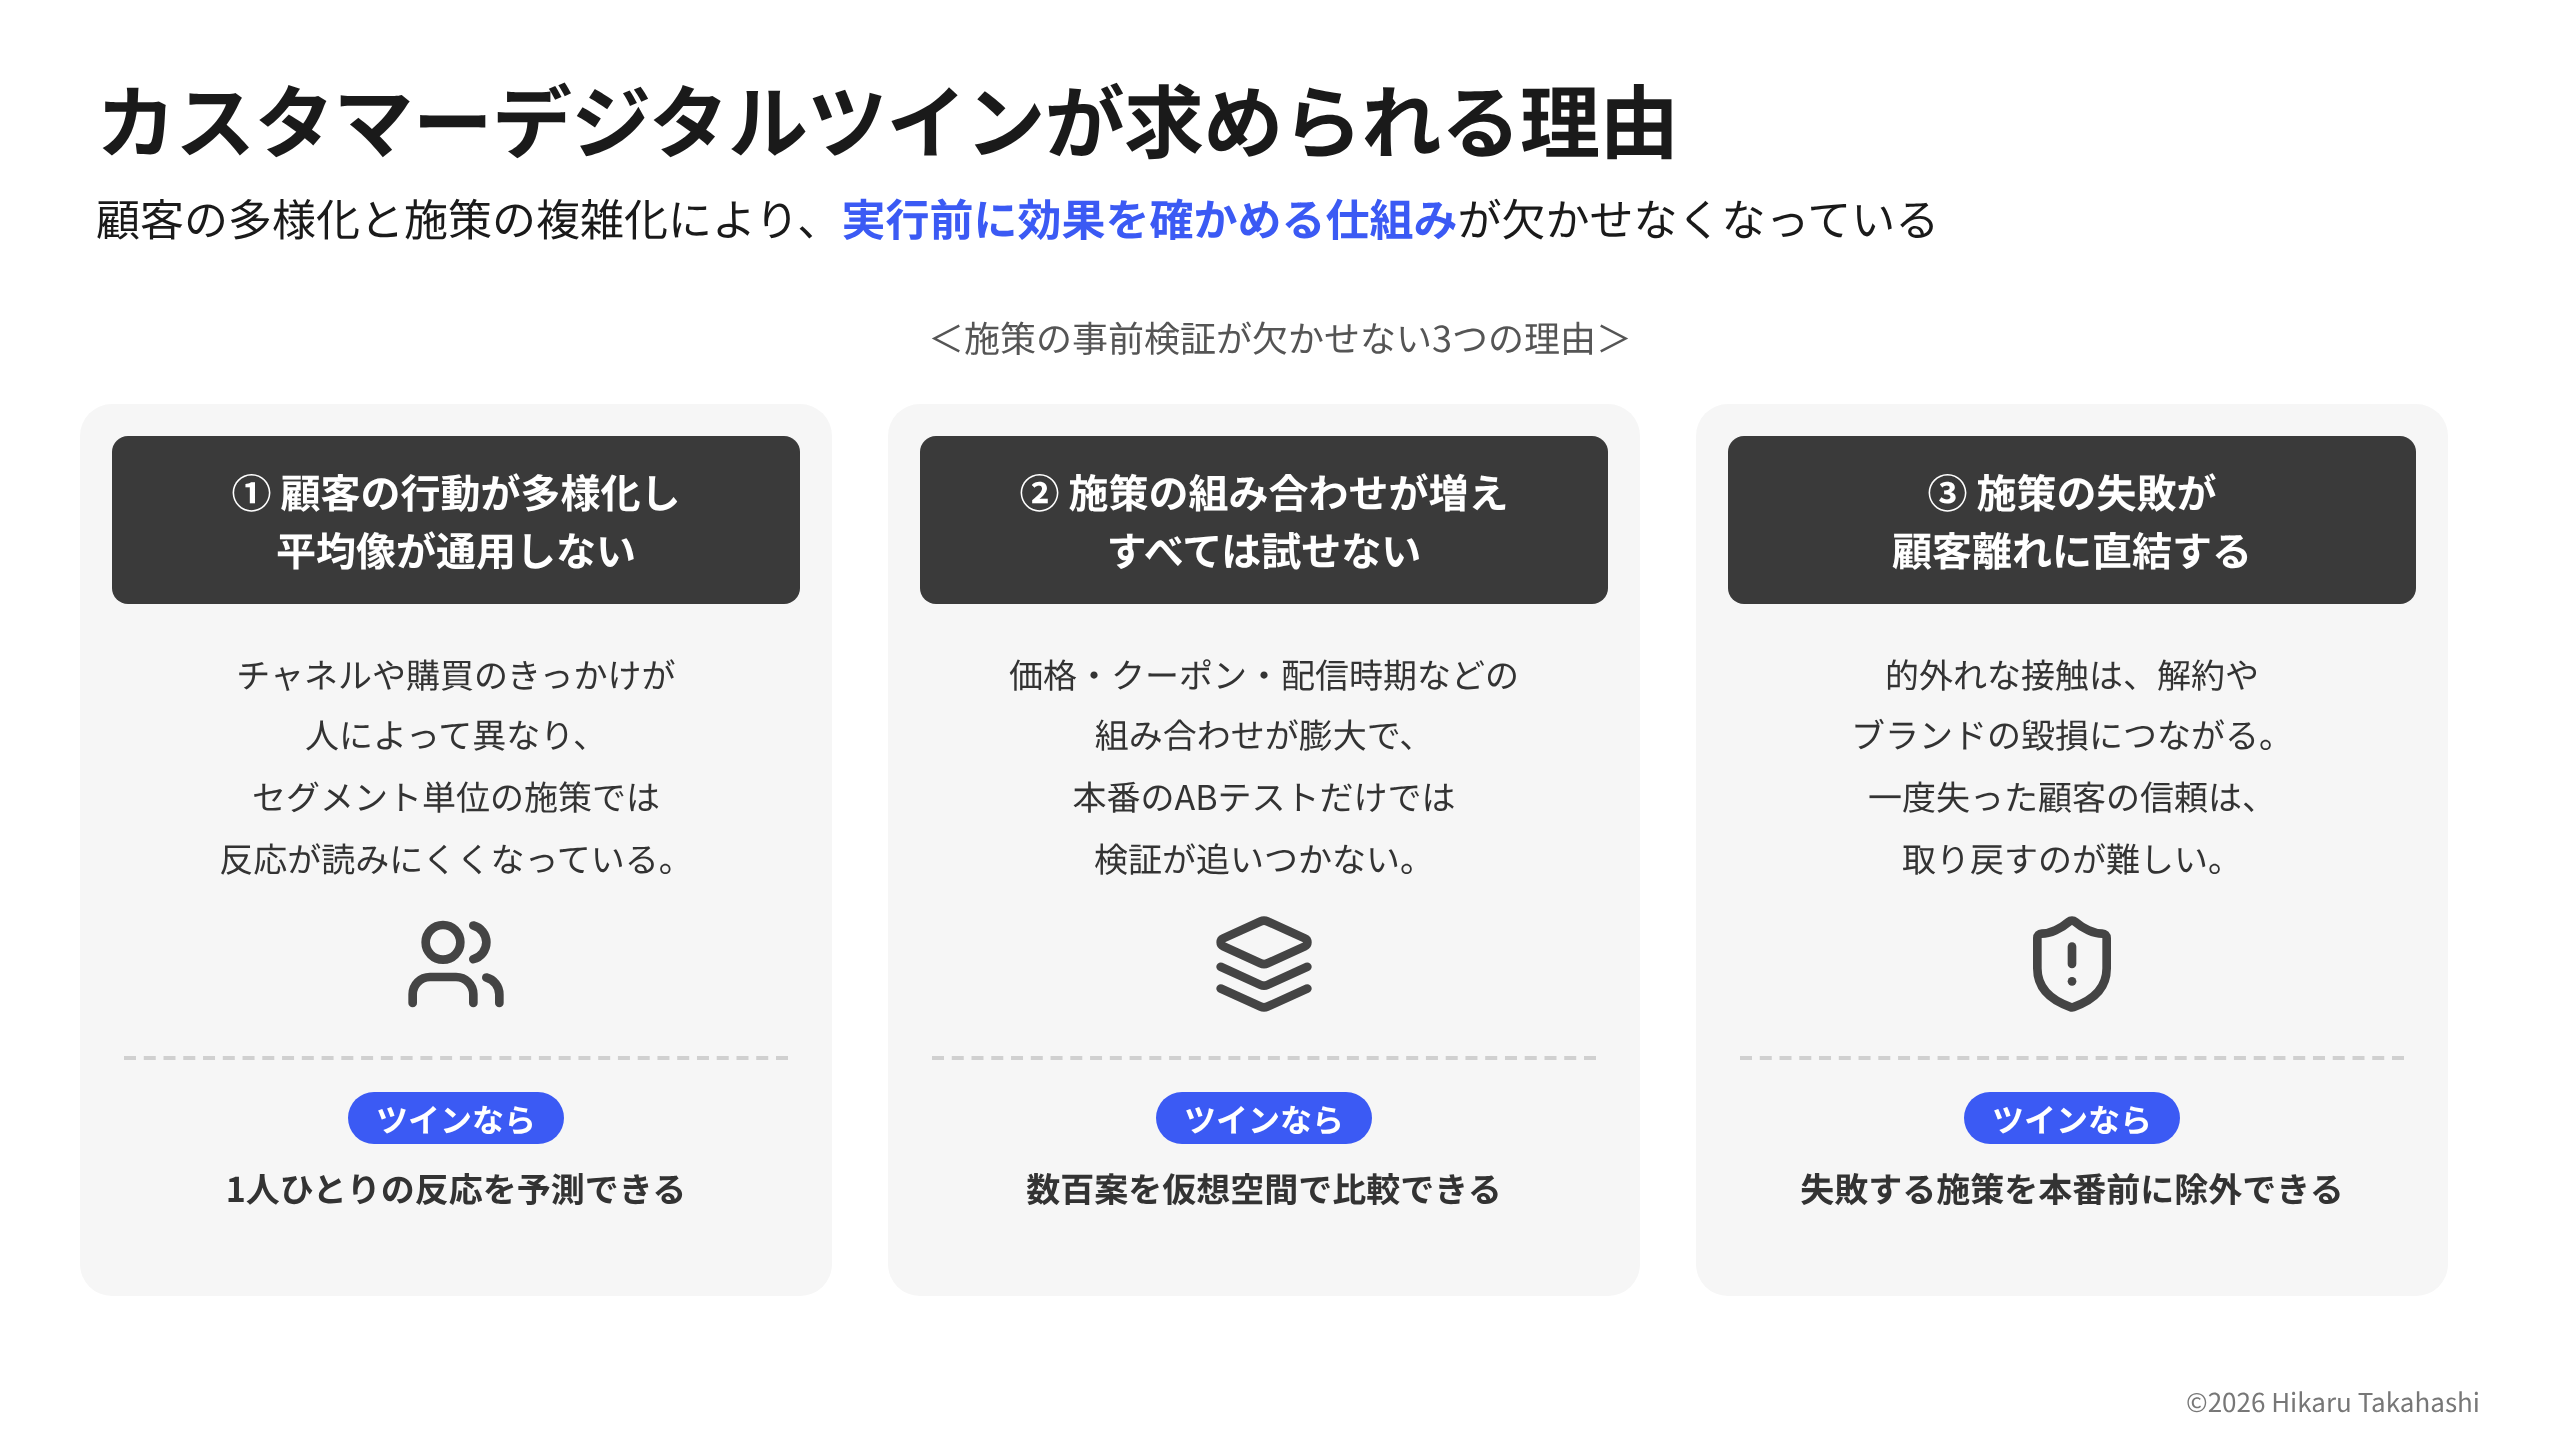
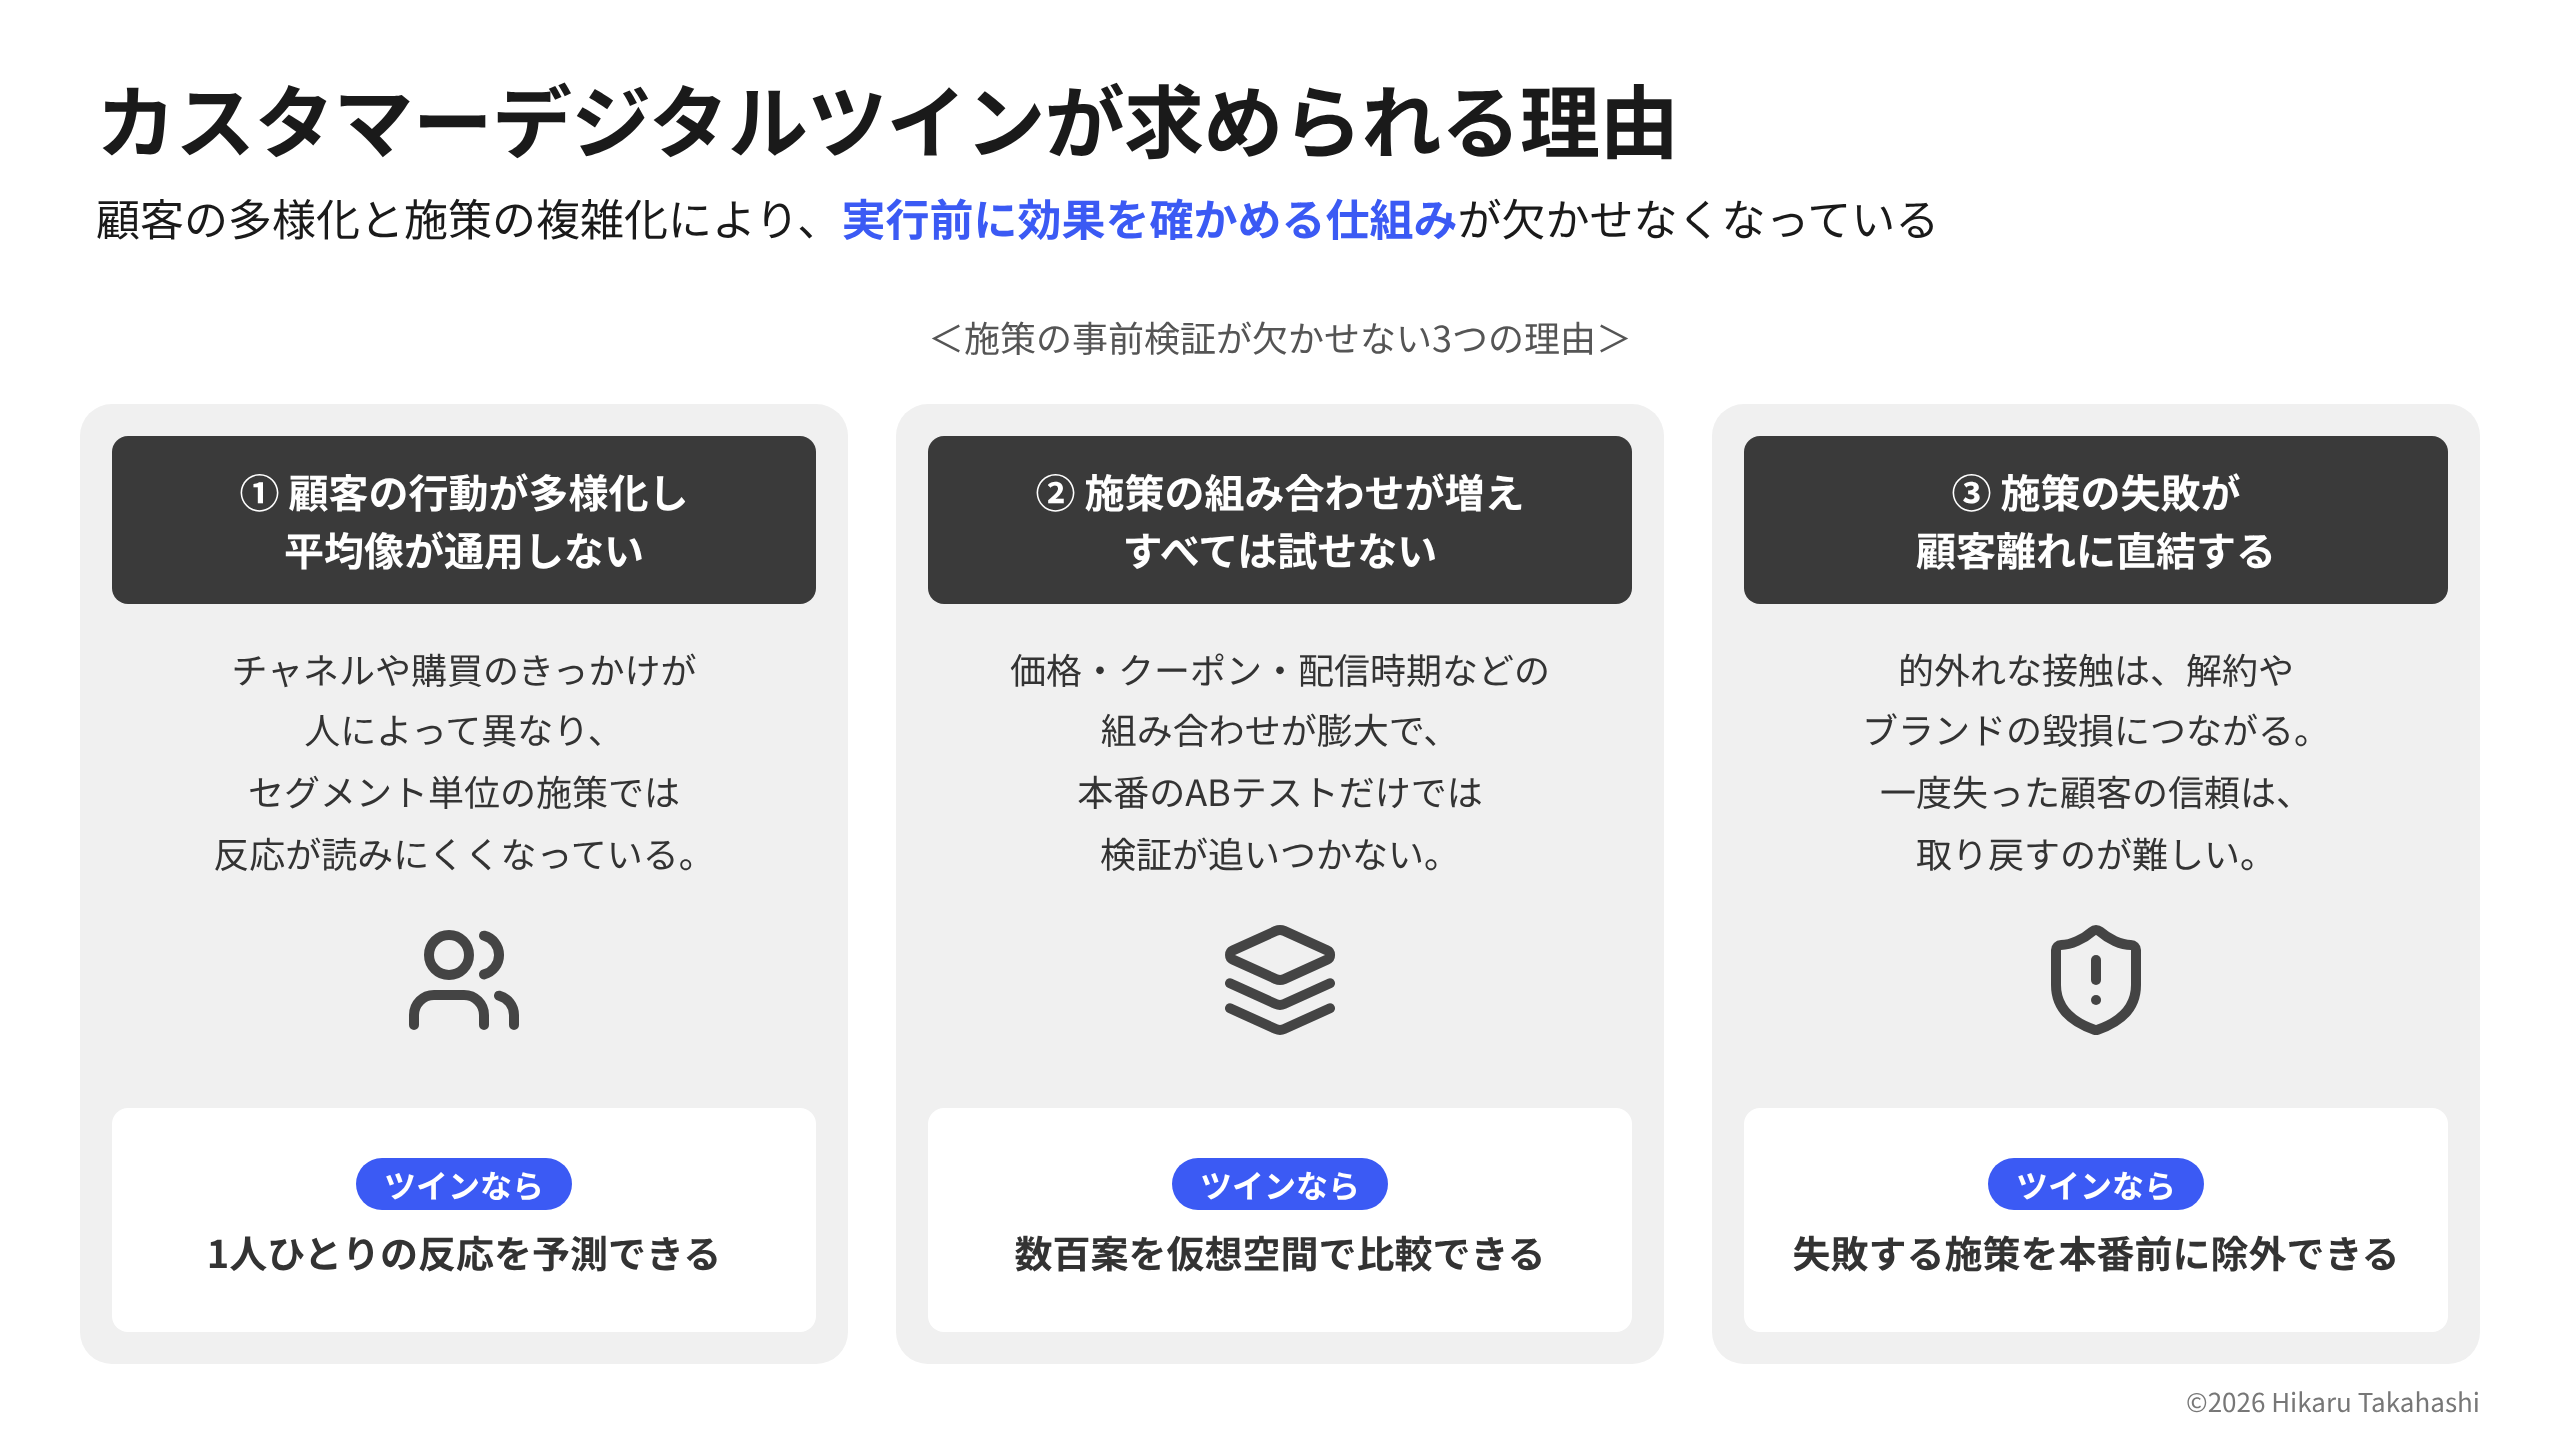
[fix] Remove dashed divider and align result boxes in ponchi-e reasons example
Claude-Session: https://claude.ai/code/session_012cCLoDMk9pvVGkUrcV6o3v

diff --git a/ponchi-e/examples/reasons.html b/ponchi-e/examples/reasons.html
@@ -1,15 +1,15 @@
 <!-- パターン: reasons（理由・ポイント・特長を3つ並べるカード）
-     上に「＜〜の3つの理由＞」の小見出し、カードは「番号付きの濃いグレーの見出し → 説明文 → アイコン → 点線 → 結論の一言」。
+     上に「＜〜の3つの理由＞」の小見出し、カードは「番号付きの濃いグレーの見出し → 説明文 → アイコン → 結論の一言（白い面）」。
      結論の一言でキーメッセージにつなげる。3つは同じ重みなので、メインカラーは結論のピルと強調語だけに使う -->
 <style>
   .rs-cap { text-align: center; font-size: 18px; color: #555; margin-bottom: 16px; }
-  .rs { position: absolute; top: 46px; width: 376px; height: 446px; background: #f6f6f6; border-radius: var(--r); padding: 16px 16px 0; }
+  .rs { position: absolute; top: 46px; bottom: 0; width: 384px; background: var(--gray-bg); border-radius: var(--r); padding: 16px; display: flex; flex-direction: column; }
   .rs-h { height: 84px; background: var(--pill); border-radius: var(--r-sm); color: #fff; display: flex; align-items: center; justify-content: center; text-align: center; font-size: 20px; font-weight: 800; line-height: 1.45; }
-  .rs p { padding: 20px 10px 0; font-size: 17px; line-height: 1.8; height: 146px; text-align: center; }
-  .rs .icon { display: block; margin: 8px auto 0; width: 52px; height: 52px; background: #444; }
-  .rs-out { margin: 20px 6px 0; padding-top: 16px; border-top: 2px dashed #d0d0d0; text-align: center; }
+  .rs p { padding: 18px 10px 0; font-size: 18px; line-height: 1.7; text-align: center; }
+  .rs .icon { display: block; margin: auto; width: 60px; height: 60px; background: #444; }   /* 説明と結論の間の空きの中央に置く */
+  .rs-out { margin-top: 16px; height: 112px; padding: 14px 10px; background: #fff; border-radius: var(--r-sm); text-align: center; display: flex; flex-direction: column; align-items: center; justify-content: center; }   /* 3枚で高さをそろえる */
   .rs-out .pill { font-size: 16px; padding: 1px 14px; }
-  .rs-out div { margin-top: 8px; font-size: 17px; font-weight: 700; }
+  .rs-out div { margin-top: 8px; font-size: 19px; font-weight: 700; }
 </style>
 <div class="slide">
   <div class="header">
@@ -24,13 +24,13 @@
       <i class="icon" style="--i:url(https://unpkg.com/lucide-static@0.460.0/icons/users.svg)"></i>
       <div class="rs-out"><span class="pill main round">ツインなら</span><div>1人ひとりの反応を予測できる</div></div>
     </div>
-    <div class="rs" style="left:404px">
+    <div class="rs" style="left:408px">
       <div class="rs-h">② 施策の組み合わせが増え<br>すべては試せない</div>
       <p>価格・クーポン・配信時期などの<br>組み合わせが膨大で、<br>本番のABテストだけでは<br>検証が追いつかない。</p>
       <i class="icon" style="--i:url(https://unpkg.com/lucide-static@0.460.0/icons/layers.svg)"></i>
       <div class="rs-out"><span class="pill main round">ツインなら</span><div>数百案を仮想空間で比較できる</div></div>
     </div>
-    <div class="rs" style="left:808px">
+    <div class="rs" style="left:816px">
       <div class="rs-h">③ 施策の失敗が<br>顧客離れに直結する</div>
       <p>的外れな接触は、解約や<br>ブランドの毀損につながる。<br>一度失った顧客の信頼は、<br>取り戻すのが難しい。</p>
       <i class="icon" style="--i:url(https://unpkg.com/lucide-static@0.460.0/icons/shield-alert.svg)"></i>

diff --git a/ponchi-e/examples/flow.html b/ponchi-e/examples/flow.html
@@ -1,6 +1,7 @@
 <!-- パターン: flow（左の円 → 中央パネル＋帯矢印 → 右の円 ＋ 下段の補足帯）
      左の円＝インプット、中央＝主役のサービス・仕組み（上に名前と3ステップ、帯矢印、下に結論1行）、右の円＝アウトプット。
-     下段には、左・中央・右の要素の真下にそれぞれの補足（データの種類、活用シーン、効果など）を置く（区切り線は引かない） -->
+     下段には、左・中央・右の要素の真下にそれぞれの補足（データの種類、活用シーン、効果など）を置く（区切り線は引かない）。
+     縦の余裕が少ないので、キーメッセージは1行に収める（2行にすると下段が出所に重なる） -->
 <style>
   .ring-l, .ring-r { position: absolute; top: 92px; width: 280px; height: 280px; gap: 12px; }
   .ring-l { left: 20px; } .ring-r { right: 20px; }
